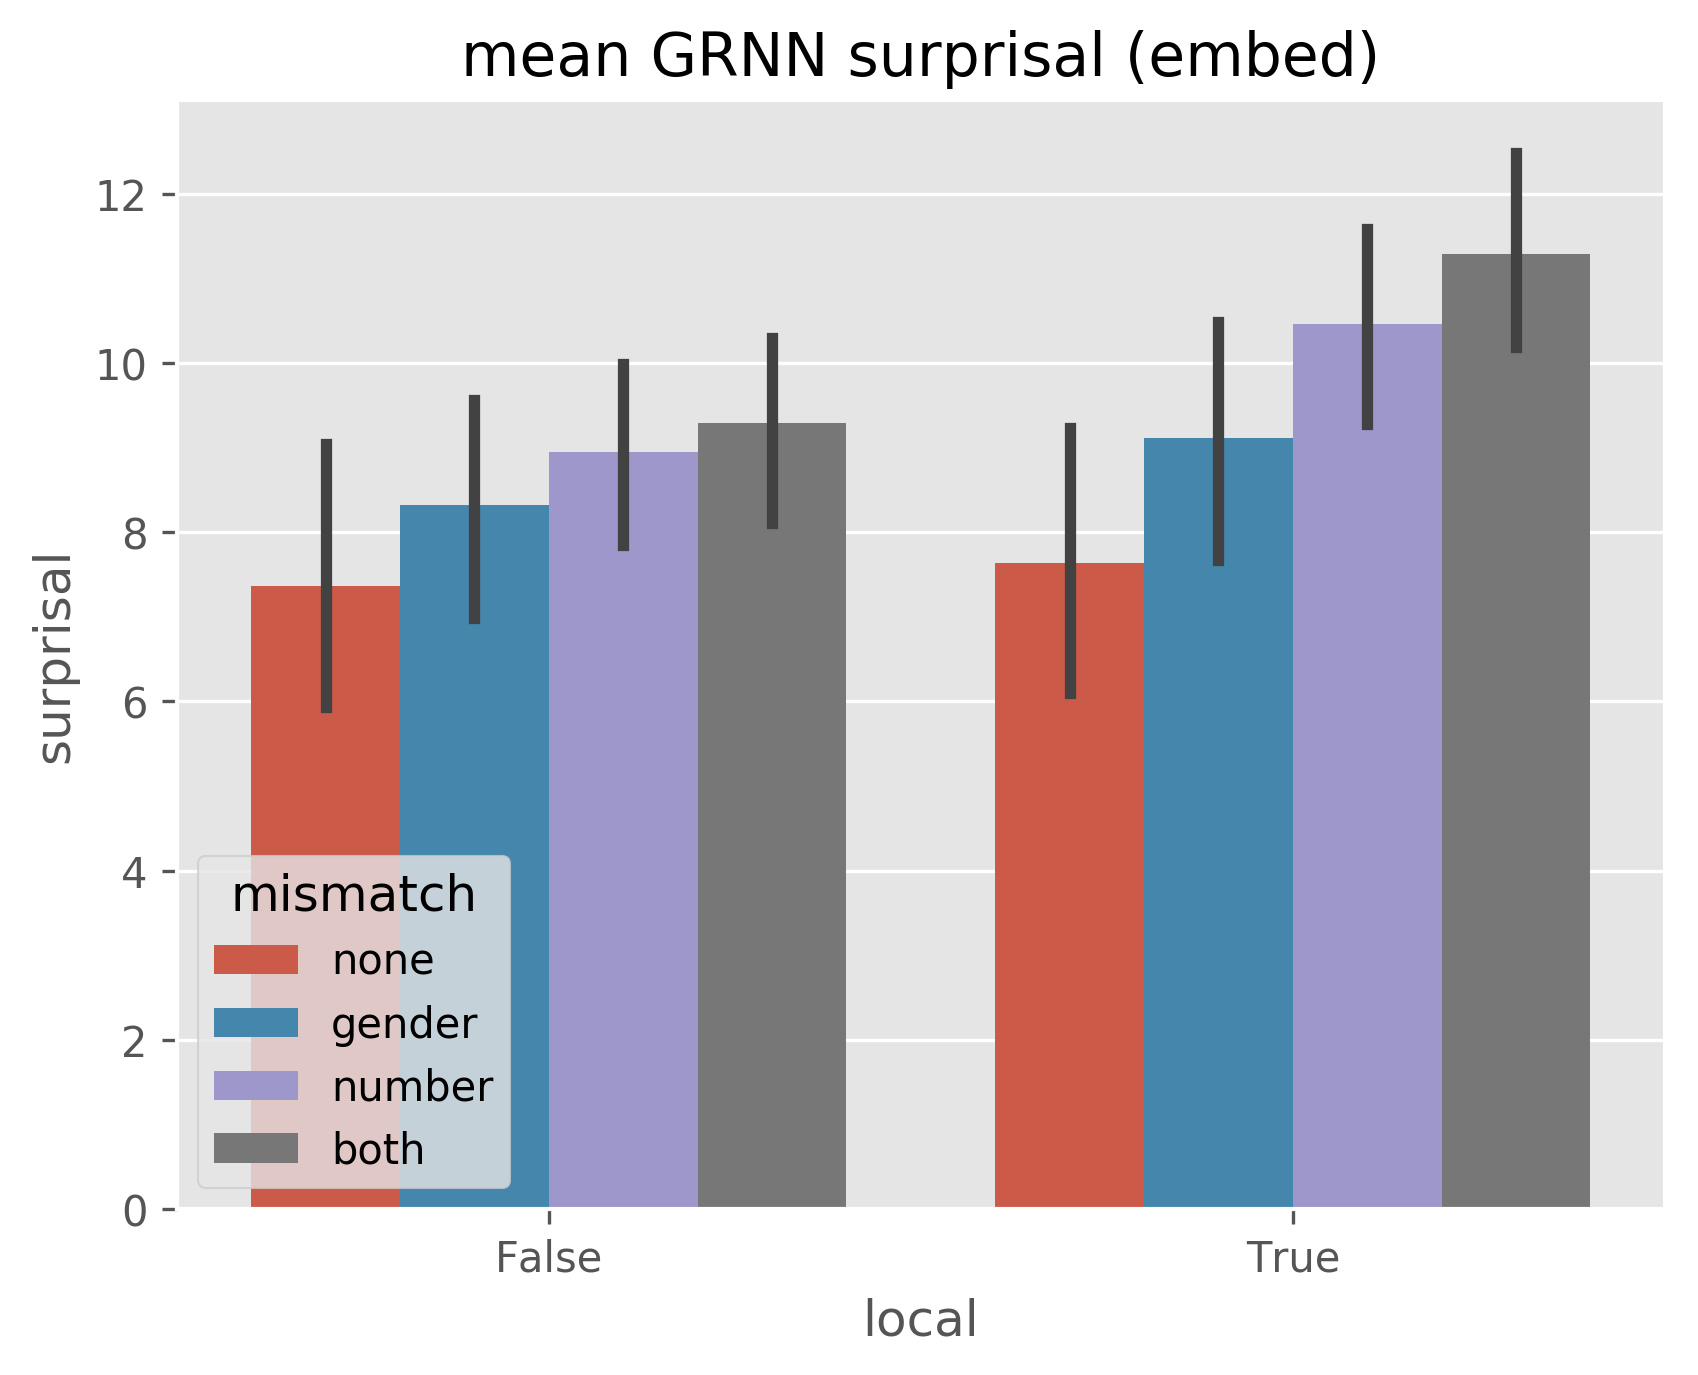
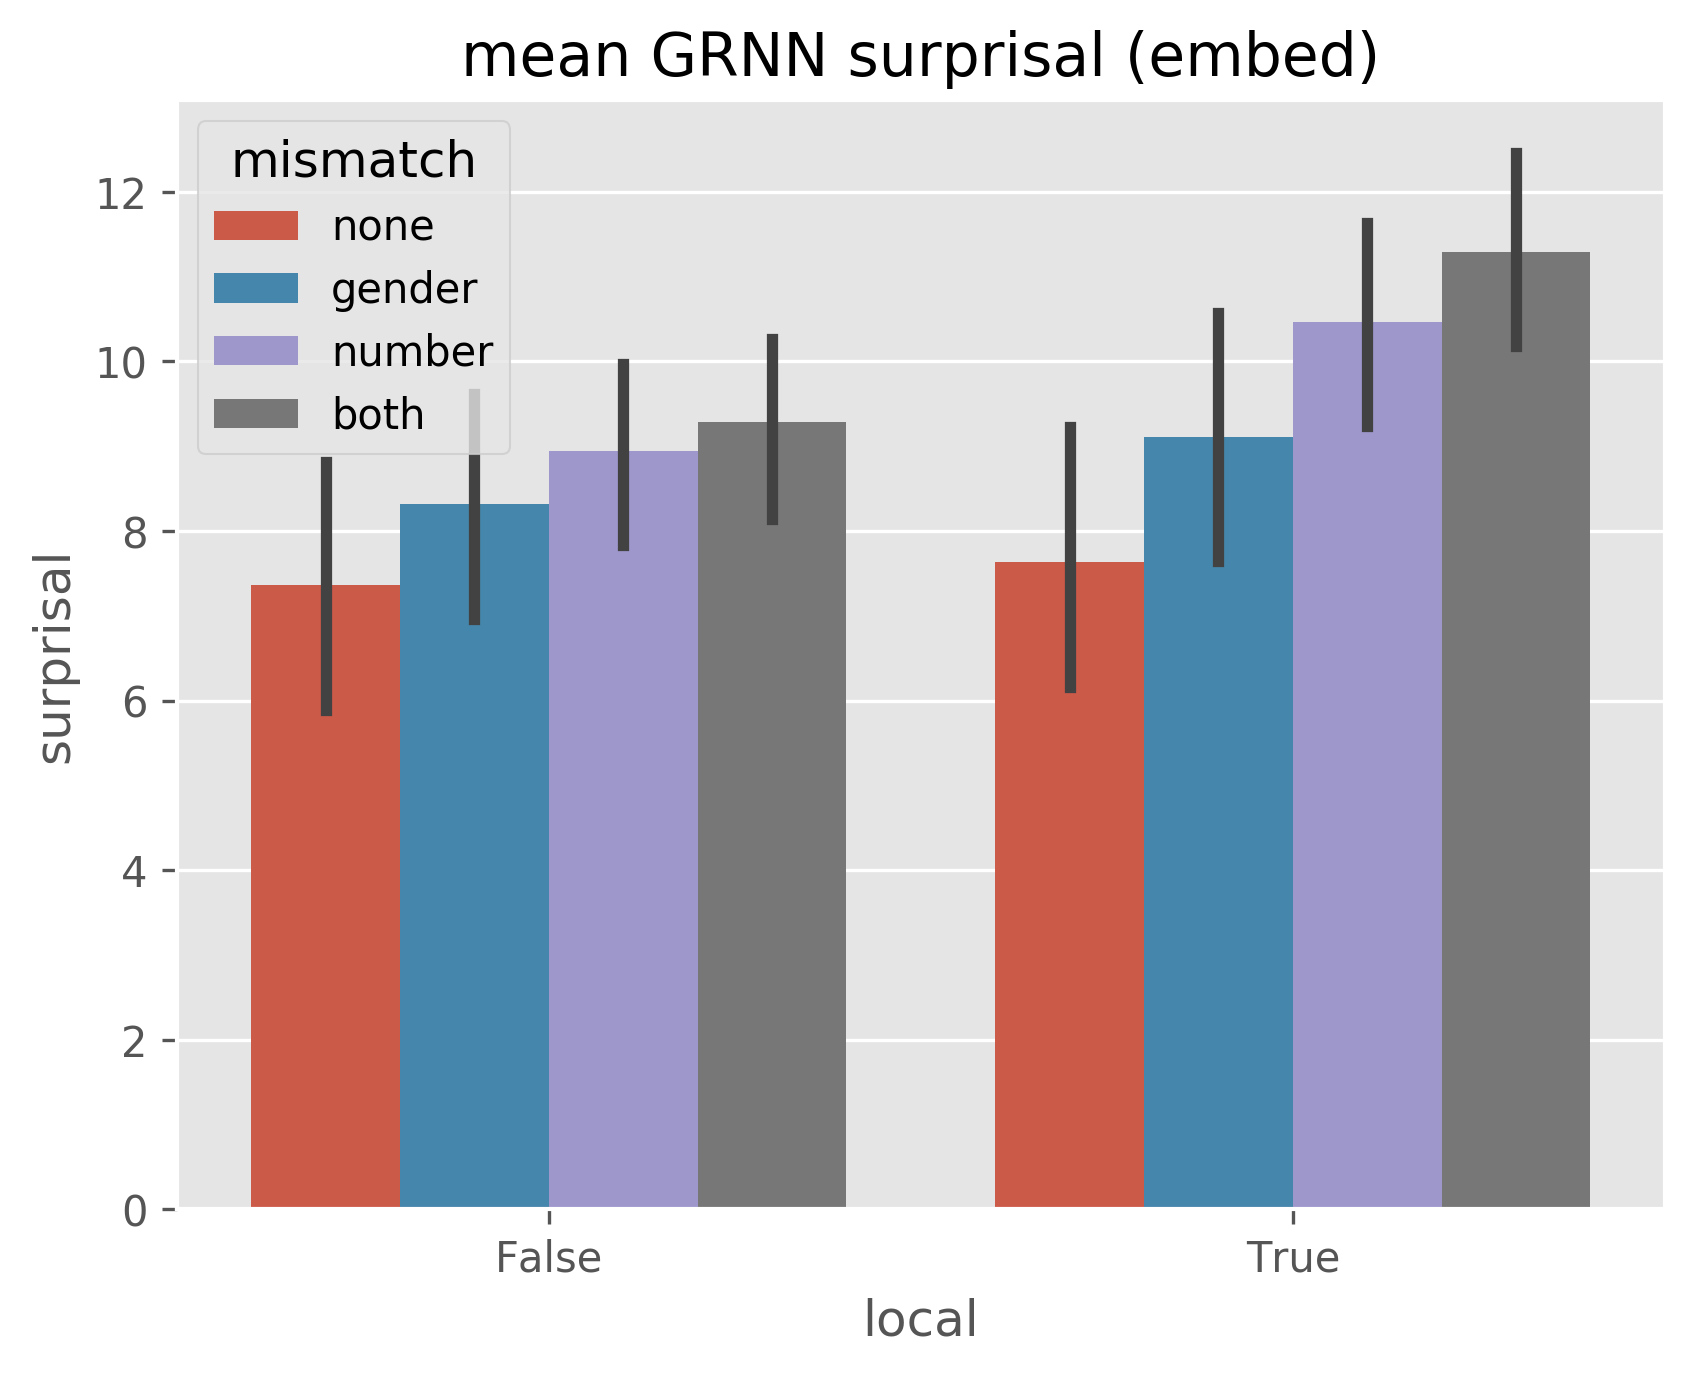
Update plots

Changed region(s): [[0.1249, 0.6109, 0.3121, 0.8858], [0.1249, 0.0916, 0.3121, 0.336], [0.0624, 0.1222, 0.0936, 0.1527]]

diff --git a/analysis/plot_surprisals.py b/analysis/plot_surprisals.py
@@ -10,16 +10,16 @@ import matplotlib.pyplot as plt
 from os import listdir
 from numpy import mean
 
-def plot_mean_surprisal(df, out_path, group_by):
+def plot_mean_surprisal(df, out_path, clause_type, group_by):
     plt.style.use('ggplot')
     mismatch_order = ['none', 'gender', 'number', 'both']
     params = dict(data=df, x=group_by, y='surprisal')
     if group_by == 'mismatch':
-        hue = 'c_command' if 'c_command' in list(df) else 'local'
+        hue = 'c_command' if clause_type == 'simple' else 'local'
         sns.barplot(hue=hue, order=mismatch_order, **params)
     else:
         sns.barplot(hue='mismatch', hue_order=mismatch_order, **params)
-    plt.title('mean GRNN surprisal')
+    plt.title('mean GRNN surprisal (%s)' % clause_type)
     plt.savefig(out_path, dpi=300, bbox_inches='tight')
 
 
@@ -38,19 +38,20 @@ def main(data, out_path, group_by):
     surprisal_files = listdir(data)
     dfs = []
     for s in surprisal_files:
+        # get parameters from file name -- see README for acceptable file names
         _, clause_type, mismatch, relation, _ = s.split('.')
         df = pd.read_csv('%s/%s' % (data, s), delim_whitespace=True,
                          names=['token', 'surprisal'])
         df['clause_type'] = clause_type
         df['mismatch'] = mismatch
-        if 'ccommand' in relation:
+        if clause_type == 'simple':
             df['c_command'] = (relation == 'ccommand')
         else:
             df['local'] = (relation == 'local')
         df = df.loc[df.token.isin(pronouns)]
         dfs.append(df)
     df = pd.concat(dfs)
-    plot_mean_surprisal(df, out_path, group_by)
+    plot_mean_surprisal(df, out_path, clause_type, group_by)
     
 
 if __name__ == '__main__':
